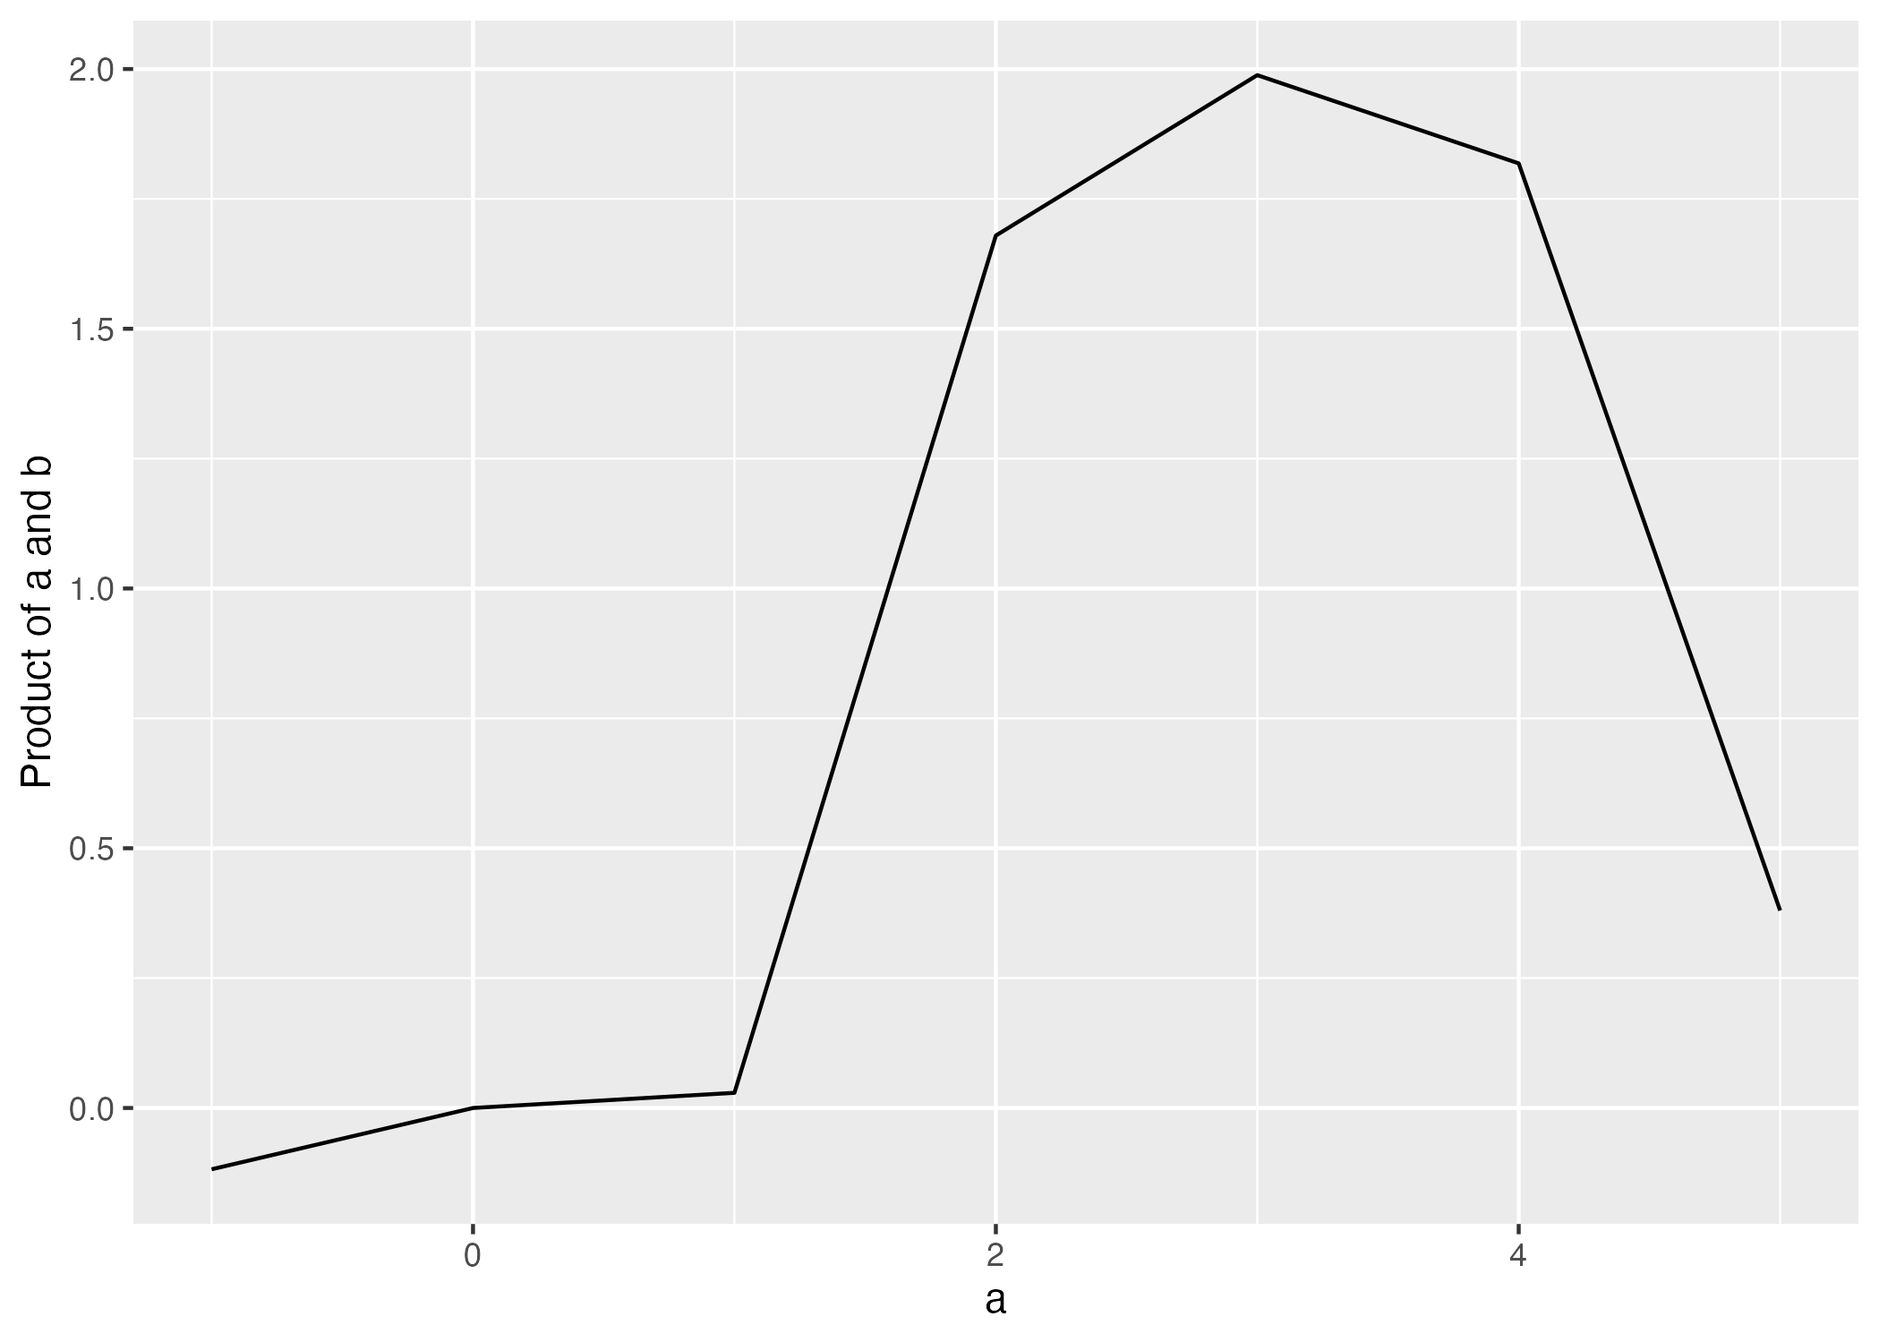
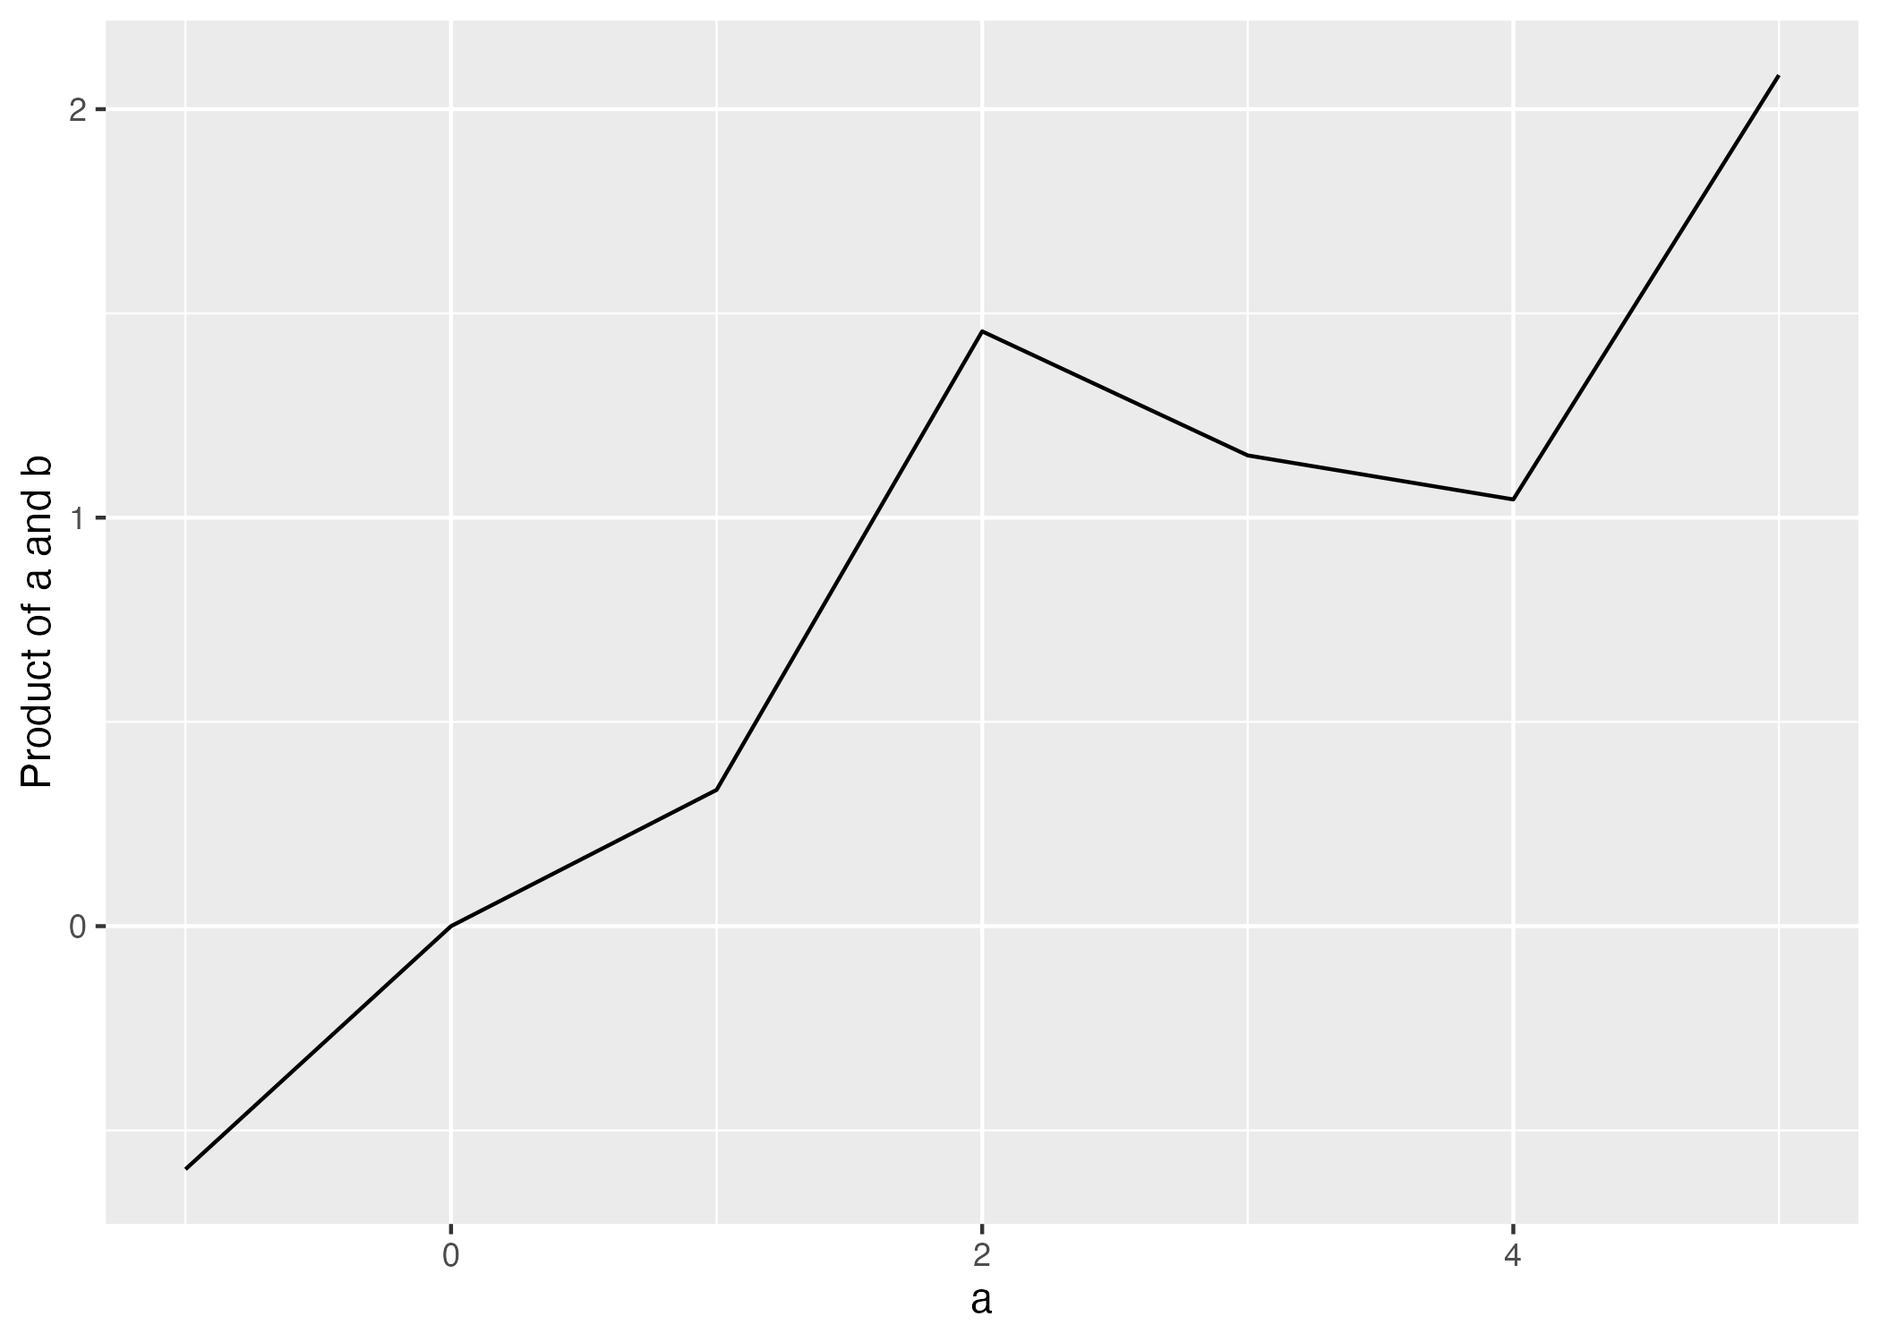
tweak_ch3

diff --git a/docs/01-trees_and_people.html b/docs/01-trees_and_people.html
@@ -406,43 +406,40 @@ window.Quarto = {
 <span id="cb1-18"><a href="#cb1-18" aria-hidden="true" tabindex="-1"></a>d <span class="ot">&lt;-</span> <span class="fu">read_sheet</span>(<span class="st">"https://docs.google.com/spreadsheets/d/1uYCuTziJiLNvVOQ9Q65BxdWcNgDF6EnF8L1T3O_yATw/edit#gid=0"</span>,</span>
 <span id="cb1-19"><a href="#cb1-19" aria-hidden="true" tabindex="-1"></a>                <span class="at">skip=</span><span class="dv">2</span>)</span></code></pre></div><button title="Copy to Clipboard" class="code-copy-button"><i class="bi"></i></button></div>
 <div class="cell-output cell-output-stderr">
-<pre><code>Auto-refreshing stale OAuth token.</code></pre>
-</div>
-<div class="cell-output cell-output-stderr">
 <pre><code>✔ Reading from "iTree_OurTrees".</code></pre>
 </div>
 <div class="cell-output cell-output-stderr">
 <pre><code>✔ Range '3:10000000'.</code></pre>
 </div>
-<div class="code-copy-outer-scaffold"><div class="sourceCode cell-code" id="cb5"><pre class="sourceCode r code-with-copy"><code class="sourceCode r"><span id="cb5-1"><a href="#cb5-1" aria-hidden="true" tabindex="-1"></a><span class="co"># Uncomment to show us the names of the variables</span></span>
-<span id="cb5-2"><a href="#cb5-2" aria-hidden="true" tabindex="-1"></a><span class="co"># names(d)</span></span>
-<span id="cb5-3"><a href="#cb5-3" aria-hidden="true" tabindex="-1"></a></span>
-<span id="cb5-4"><a href="#cb5-4" aria-hidden="true" tabindex="-1"></a><span class="co"># make a scatterplot</span></span>
-<span id="cb5-5"><a href="#cb5-5" aria-hidden="true" tabindex="-1"></a>plot1 <span class="ot">&lt;-</span> <span class="fu">ggplot</span>(<span class="at">data=</span>d, <span class="fu">aes</span>(<span class="at">x=</span>Median_Income, </span>
-<span id="cb5-6"><a href="#cb5-6" aria-hidden="true" tabindex="-1"></a>                   <span class="at">y=</span>Tree_canopy_cover, </span>
-<span id="cb5-7"><a href="#cb5-7" aria-hidden="true" tabindex="-1"></a>                   <span class="at">label=</span><span class="st">`</span><span class="at">City (only)</span><span class="st">`</span>)) <span class="sc">+</span> <span class="fu">geom_text</span>() <span class="sc">+</span></span>
-<span id="cb5-8"><a href="#cb5-8" aria-hidden="true" tabindex="-1"></a>  <span class="fu">labs</span>(<span class="at">y=</span><span class="st">"Tree cover (%)"</span>, <span class="at">x=</span><span class="st">"Median income"</span>, <span class="at">title=</span><span class="st">"No relation twixt tree cover and income?"</span>)</span>
-<span id="cb5-9"><a href="#cb5-9" aria-hidden="true" tabindex="-1"></a></span>
-<span id="cb5-10"><a href="#cb5-10" aria-hidden="true" tabindex="-1"></a><span class="fu">ggsave</span>(<span class="st">"myCoverIncome_text.png"</span>, <span class="at">plot=</span>plot1, <span class="at">width=</span><span class="dv">10</span>, <span class="at">height =</span> <span class="dv">10</span>)</span>
-<span id="cb5-11"><a href="#cb5-11" aria-hidden="true" tabindex="-1"></a></span>
-<span id="cb5-12"><a href="#cb5-12" aria-hidden="true" tabindex="-1"></a>plot2 <span class="ot">&lt;-</span> <span class="fu">ggplot</span>(<span class="at">data=</span>d, <span class="fu">aes</span>(<span class="at">x=</span>Median_Income, </span>
-<span id="cb5-13"><a href="#cb5-13" aria-hidden="true" tabindex="-1"></a>                   <span class="at">y=</span>Tree_canopy_cover, </span>
-<span id="cb5-14"><a href="#cb5-14" aria-hidden="true" tabindex="-1"></a>                   <span class="at">label=</span><span class="st">`</span><span class="at">City (only)</span><span class="st">`</span>)) <span class="sc">+</span> </span>
-<span id="cb5-15"><a href="#cb5-15" aria-hidden="true" tabindex="-1"></a>  <span class="fu">geom_point</span>() <span class="sc">+</span></span>
-<span id="cb5-16"><a href="#cb5-16" aria-hidden="true" tabindex="-1"></a>  <span class="fu">labs</span>(<span class="at">y=</span><span class="st">"Tree cover (%)"</span>, <span class="at">x=</span><span class="st">"Median income"</span>, <span class="at">title=</span><span class="st">"No relation twixt tree cover and income?"</span>)</span>
-<span id="cb5-17"><a href="#cb5-17" aria-hidden="true" tabindex="-1"></a></span>
-<span id="cb5-18"><a href="#cb5-18" aria-hidden="true" tabindex="-1"></a><span class="co"># save the figure (dimensions in inches)</span></span>
-<span id="cb5-19"><a href="#cb5-19" aria-hidden="true" tabindex="-1"></a><span class="fu">ggsave</span>(<span class="st">"myCoverIncome_points.png"</span>, <span class="at">plot=</span>plot2, <span class="at">width=</span><span class="dv">7</span>, <span class="at">height =</span> <span class="dv">7</span>)</span></code></pre></div><button title="Copy to Clipboard" class="code-copy-button"><i class="bi"></i></button></div>
+<div class="code-copy-outer-scaffold"><div class="sourceCode cell-code" id="cb4"><pre class="sourceCode r code-with-copy"><code class="sourceCode r"><span id="cb4-1"><a href="#cb4-1" aria-hidden="true" tabindex="-1"></a><span class="co"># Uncomment to show us the names of the variables</span></span>
+<span id="cb4-2"><a href="#cb4-2" aria-hidden="true" tabindex="-1"></a><span class="co"># names(d)</span></span>
+<span id="cb4-3"><a href="#cb4-3" aria-hidden="true" tabindex="-1"></a></span>
+<span id="cb4-4"><a href="#cb4-4" aria-hidden="true" tabindex="-1"></a><span class="co"># make a scatterplot</span></span>
+<span id="cb4-5"><a href="#cb4-5" aria-hidden="true" tabindex="-1"></a>plot1 <span class="ot">&lt;-</span> <span class="fu">ggplot</span>(<span class="at">data=</span>d, <span class="fu">aes</span>(<span class="at">x=</span>Median_Income, </span>
+<span id="cb4-6"><a href="#cb4-6" aria-hidden="true" tabindex="-1"></a>                   <span class="at">y=</span>Tree_canopy_cover, </span>
+<span id="cb4-7"><a href="#cb4-7" aria-hidden="true" tabindex="-1"></a>                   <span class="at">label=</span><span class="st">`</span><span class="at">City (only)</span><span class="st">`</span>)) <span class="sc">+</span> <span class="fu">geom_text</span>() <span class="sc">+</span></span>
+<span id="cb4-8"><a href="#cb4-8" aria-hidden="true" tabindex="-1"></a>  <span class="fu">labs</span>(<span class="at">y=</span><span class="st">"Tree cover (%)"</span>, <span class="at">x=</span><span class="st">"Median income"</span>, <span class="at">title=</span><span class="st">"No relation twixt tree cover and income?"</span>)</span>
+<span id="cb4-9"><a href="#cb4-9" aria-hidden="true" tabindex="-1"></a></span>
+<span id="cb4-10"><a href="#cb4-10" aria-hidden="true" tabindex="-1"></a><span class="fu">ggsave</span>(<span class="st">"myCoverIncome_text.png"</span>, <span class="at">plot=</span>plot1, <span class="at">width=</span><span class="dv">10</span>, <span class="at">height =</span> <span class="dv">10</span>)</span>
+<span id="cb4-11"><a href="#cb4-11" aria-hidden="true" tabindex="-1"></a></span>
+<span id="cb4-12"><a href="#cb4-12" aria-hidden="true" tabindex="-1"></a>plot2 <span class="ot">&lt;-</span> <span class="fu">ggplot</span>(<span class="at">data=</span>d, <span class="fu">aes</span>(<span class="at">x=</span>Median_Income, </span>
+<span id="cb4-13"><a href="#cb4-13" aria-hidden="true" tabindex="-1"></a>                   <span class="at">y=</span>Tree_canopy_cover, </span>
+<span id="cb4-14"><a href="#cb4-14" aria-hidden="true" tabindex="-1"></a>                   <span class="at">label=</span><span class="st">`</span><span class="at">City (only)</span><span class="st">`</span>)) <span class="sc">+</span> </span>
+<span id="cb4-15"><a href="#cb4-15" aria-hidden="true" tabindex="-1"></a>  <span class="fu">geom_point</span>() <span class="sc">+</span></span>
+<span id="cb4-16"><a href="#cb4-16" aria-hidden="true" tabindex="-1"></a>  <span class="fu">labs</span>(<span class="at">y=</span><span class="st">"Tree cover (%)"</span>, <span class="at">x=</span><span class="st">"Median income"</span>, <span class="at">title=</span><span class="st">"No relation twixt tree cover and income?"</span>)</span>
+<span id="cb4-17"><a href="#cb4-17" aria-hidden="true" tabindex="-1"></a></span>
+<span id="cb4-18"><a href="#cb4-18" aria-hidden="true" tabindex="-1"></a><span class="co"># save the figure (dimensions in inches)</span></span>
+<span id="cb4-19"><a href="#cb4-19" aria-hidden="true" tabindex="-1"></a><span class="fu">ggsave</span>(<span class="st">"myCoverIncome_points.png"</span>, <span class="at">plot=</span>plot2, <span class="at">width=</span><span class="dv">7</span>, <span class="at">height =</span> <span class="dv">7</span>)</span></code></pre></div><button title="Copy to Clipboard" class="code-copy-button"><i class="bi"></i></button></div>
 </div>
 <p>Here is a subset of data I collected on the places where members of my family lives.</p>
 <div class="cell">
-<div class="code-copy-outer-scaffold"><div class="sourceCode cell-code" id="cb6"><pre class="sourceCode r code-with-copy"><code class="sourceCode r"><span id="cb6-1"><a href="#cb6-1" aria-hidden="true" tabindex="-1"></a>d10 <span class="ot">&lt;-</span> d[<span class="dv">1</span><span class="sc">:</span><span class="dv">10</span>,]</span>
-<span id="cb6-2"><a href="#cb6-2" aria-hidden="true" tabindex="-1"></a>myPlot <span class="ot">&lt;-</span> <span class="fu">ggplot</span>(<span class="at">data=</span>d10, <span class="fu">aes</span>(<span class="at">x=</span>Median_Income, </span>
-<span id="cb6-3"><a href="#cb6-3" aria-hidden="true" tabindex="-1"></a>                   <span class="at">y=</span>Tree_canopy_cover, </span>
-<span id="cb6-4"><a href="#cb6-4" aria-hidden="true" tabindex="-1"></a>                   <span class="at">label=</span><span class="st">`</span><span class="at">City (only)</span><span class="st">`</span>)) <span class="sc">+</span> <span class="fu">geom_text</span>() <span class="sc">+</span></span>
-<span id="cb6-5"><a href="#cb6-5" aria-hidden="true" tabindex="-1"></a>  <span class="fu">labs</span>(<span class="at">y=</span><span class="st">"Tree cover (%)"</span>, <span class="at">x=</span><span class="st">"Median income"</span>, <span class="at">title=</span><span class="st">"No relation twixt tree cover and income?"</span>)</span>
-<span id="cb6-6"><a href="#cb6-6" aria-hidden="true" tabindex="-1"></a></span>
-<span id="cb6-7"><a href="#cb6-7" aria-hidden="true" tabindex="-1"></a>myPlot</span></code></pre></div><button title="Copy to Clipboard" class="code-copy-button"><i class="bi"></i></button></div>
+<div class="code-copy-outer-scaffold"><div class="sourceCode cell-code" id="cb5"><pre class="sourceCode r code-with-copy"><code class="sourceCode r"><span id="cb5-1"><a href="#cb5-1" aria-hidden="true" tabindex="-1"></a>d10 <span class="ot">&lt;-</span> d[<span class="dv">1</span><span class="sc">:</span><span class="dv">10</span>,]</span>
+<span id="cb5-2"><a href="#cb5-2" aria-hidden="true" tabindex="-1"></a>myPlot <span class="ot">&lt;-</span> <span class="fu">ggplot</span>(<span class="at">data=</span>d10, <span class="fu">aes</span>(<span class="at">x=</span>Median_Income, </span>
+<span id="cb5-3"><a href="#cb5-3" aria-hidden="true" tabindex="-1"></a>                   <span class="at">y=</span>Tree_canopy_cover, </span>
+<span id="cb5-4"><a href="#cb5-4" aria-hidden="true" tabindex="-1"></a>                   <span class="at">label=</span><span class="st">`</span><span class="at">City (only)</span><span class="st">`</span>)) <span class="sc">+</span> <span class="fu">geom_text</span>() <span class="sc">+</span></span>
+<span id="cb5-5"><a href="#cb5-5" aria-hidden="true" tabindex="-1"></a>  <span class="fu">labs</span>(<span class="at">y=</span><span class="st">"Tree cover (%)"</span>, <span class="at">x=</span><span class="st">"Median income"</span>, <span class="at">title=</span><span class="st">"No relation twixt tree cover and income?"</span>)</span>
+<span id="cb5-6"><a href="#cb5-6" aria-hidden="true" tabindex="-1"></a></span>
+<span id="cb5-7"><a href="#cb5-7" aria-hidden="true" tabindex="-1"></a>myPlot</span></code></pre></div><button title="Copy to Clipboard" class="code-copy-button"><i class="bi"></i></button></div>
 <div class="cell-output-display">
 <div id="fig-data" class="quarto-float quarto-figure quarto-figure-center anchored">
 <figure class="quarto-float quarto-float-fig figure">

diff --git a/docs/01-computer-setup.html b/docs/01-computer-setup.html
@@ -686,7 +686,7 @@ window.Quarto = {
 <div class="code-copy-outer-scaffold"><div class="sourceCode cell-code" id="cb16"><pre class="sourceCode r code-with-copy"><code class="sourceCode r"><span id="cb16-1"><a href="#cb16-1" aria-hidden="true" tabindex="-1"></a>b <span class="ot">&lt;-</span> <span class="fu">runif</span>(<span class="dv">7</span>, <span class="at">min=</span><span class="dv">0</span>, <span class="at">max=</span><span class="dv">1</span>)</span>
 <span id="cb16-2"><a href="#cb16-2" aria-hidden="true" tabindex="-1"></a>b</span></code></pre></div><button title="Copy to Clipboard" class="code-copy-button"><i class="bi"></i></button></div>
 <div class="cell-output cell-output-stdout">
-<pre><code>[1] 0.11800968 0.19205693 0.02916493 0.83971265 0.66273855 0.45460258 0.07602446</code></pre>
+<pre><code>[1] 0.5952251 0.6460233 0.3335534 0.7280361 0.3841194 0.2611528 0.4166566</code></pre>
 </div>
 </div>
 <p>These will differ every time you do this.</p>
@@ -701,12 +701,11 @@ window.Quarto = {
 </div>
 <div class="code-copy-outer-scaffold"><div class="sourceCode cell-code" id="cb20"><pre class="sourceCode r code-with-copy"><code class="sourceCode r"><span id="cb20-1"><a href="#cb20-1" aria-hidden="true" tabindex="-1"></a>b</span></code></pre></div><button title="Copy to Clipboard" class="code-copy-button"><i class="bi"></i></button></div>
 <div class="cell-output cell-output-stdout">
-<pre><code>[1] 0.11800968 0.19205693 0.02916493 0.83971265 0.66273855 0.45460258 0.07602446</code></pre>
+<pre><code>[1] 0.5952251 0.6460233 0.3335534 0.7280361 0.3841194 0.2611528 0.4166566</code></pre>
 </div>
 <div class="code-copy-outer-scaffold"><div class="sourceCode cell-code" id="cb22"><pre class="sourceCode r code-with-copy"><code class="sourceCode r"><span id="cb22-1"><a href="#cb22-1" aria-hidden="true" tabindex="-1"></a>ab</span></code></pre></div><button title="Copy to Clipboard" class="code-copy-button"><i class="bi"></i></button></div>
 <div class="cell-output cell-output-stdout">
-<pre><code>[1] -0.11800968  0.00000000  0.02916493  1.67942529  1.98821564  1.81841030
-[7]  0.38012228</code></pre>
+<pre><code>[1] -0.5952251  0.0000000  0.3335534  1.4560722  1.1523583  1.0446112  2.0832828</code></pre>
 </div>
 </div>
 <p>You can confirm at a glance that the first and second elements in <code>a</code> times the first and second elements in <code>b</code> equal the first and second elements in <code>ab</code>.</p>
@@ -719,14 +718,14 @@ window.Quarto = {
 <div class="code-copy-outer-scaffold"><div class="sourceCode cell-code" id="cb24"><pre class="sourceCode r code-with-copy"><code class="sourceCode r"><span id="cb24-1"><a href="#cb24-1" aria-hidden="true" tabindex="-1"></a>d <span class="ot">&lt;-</span> <span class="fu">data.frame</span>(<span class="at">a=</span>a, <span class="at">b=</span>b, <span class="at">a_times_b =</span> ab)</span>
 <span id="cb24-2"><a href="#cb24-2" aria-hidden="true" tabindex="-1"></a>d</span></code></pre></div><button title="Copy to Clipboard" class="code-copy-button"><i class="bi"></i></button></div>
 <div class="cell-output cell-output-stdout">
-<pre><code>   a          b   a_times_b
-1 -1 0.11800968 -0.11800968
-2  0 0.19205693  0.00000000
-3  1 0.02916493  0.02916493
-4  2 0.83971265  1.67942529
-5  3 0.66273855  1.98821564
-6  4 0.45460258  1.81841030
-7  5 0.07602446  0.38012228</code></pre>
+<pre><code>   a         b  a_times_b
+1 -1 0.5952251 -0.5952251
+2  0 0.6460233  0.0000000
+3  1 0.3335534  0.3335534
+4  2 0.7280361  1.4560722
+5  3 0.3841194  1.1523583
+6  4 0.2611528  1.0446112
+7  5 0.4166566  2.0832828</code></pre>
 </div>
 </div>
 <p>You could examine the structure of this data frame with <code>str()</code>.</p>
@@ -735,8 +734,8 @@ window.Quarto = {
 <div class="cell-output cell-output-stdout">
 <pre><code>'data.frame':   7 obs. of  3 variables:
  $ a        : int  -1 0 1 2 3 4 5
- $ b        : num  0.118 0.1921 0.0292 0.8397 0.6627 ...
- $ a_times_b: num  -0.118 0 0.0292 1.6794 1.9882 ...</code></pre>
+ $ b        : num  0.595 0.646 0.334 0.728 0.384 ...
+ $ a_times_b: num  -0.595 0 0.334 1.456 1.152 ...</code></pre>
 </div>
 </div>
 <p>You will also notice now that you can see all of our objects in the Environment pane, in the upper right of RStudio.</p>

diff --git a/docs/03-liana-phys.html b/docs/03-liana-phys.html
@@ -667,16 +667,23 @@ Levels: Mar Apr May Sep Oct</code></pre>
 </section>
 <section id="deliverables" class="level2" data-number="4.6">
 <h2 data-number="4.6" class="anchored" data-anchor-id="deliverables"><span class="header-section-number">4.6</span> Deliverables</h2>
-<p>Two documents:</p>
+<p>Turn in two documents, one document has your ideas, graphs, and answers, and the other document is your R script.</p>
 <p>A. The first document will contain:</p>
 <ol type="1">
 <li>A restatement, in your own words, of the hypothesis of Smith-Martin and her colleagues.</li>
 <li>Two predictions of the hypothesis that you can evaluate using the data we have (see above). You should take pictures of these hand-drawn images, and put them into this document.</li>
-<li>Two graphs done in R that evaluate the hypothesis of Smith-Martin and her colleagues. The variables in the graphs must match the variables in you predictions.</li>
+<li>Two graphs done in R that use data to evaluate the hypothesis of Smith-Martin and her colleagues. The variables in the graphs must match the variables in your predictions.</li>
 <li>For each graph, identify the independent variable(s) and the dependent variable(s).</li>
 <li>For each graph, explain what the graph shows and what it tells us about the hypothesis. We can’t draw firm conclusions, so use terms such as “suggests”, “is consistent with”, “seems to show”, or others, which help avoid expressing unwarranted certainty. Even with careful analysis, we always have to be cautious.</li>
 </ol>
-<p>B. Your second document is your R script.</p>
+<p>B. Your second document is your R script. The R script should contain <em>everything a person would need</em> aside from the data itself to make the figures that you turn in, as well as identifying information. For instance, this should include:</p>
+<ul>
+<li>Your name, the course, the chapter or assignment, and the date, all as comments with leading hastags (#s).</li>
+<li>Loading any packages you need, such as <code>ggplot2</code>, or others.</li>
+<li>code to load (or “read”) any data you need, and comments that explain what the code does,</li>
+<li>code to organize the data if you need to, and comments that explain what the code does,</li>
+<li>code to create, and to save any graphs you make, and comments that explain what the code does.</li>
+</ul>
 
 
 <div id="refs" class="references csl-bib-body hanging-indent" data-entry-spacing="0" role="list" style="display: none">
